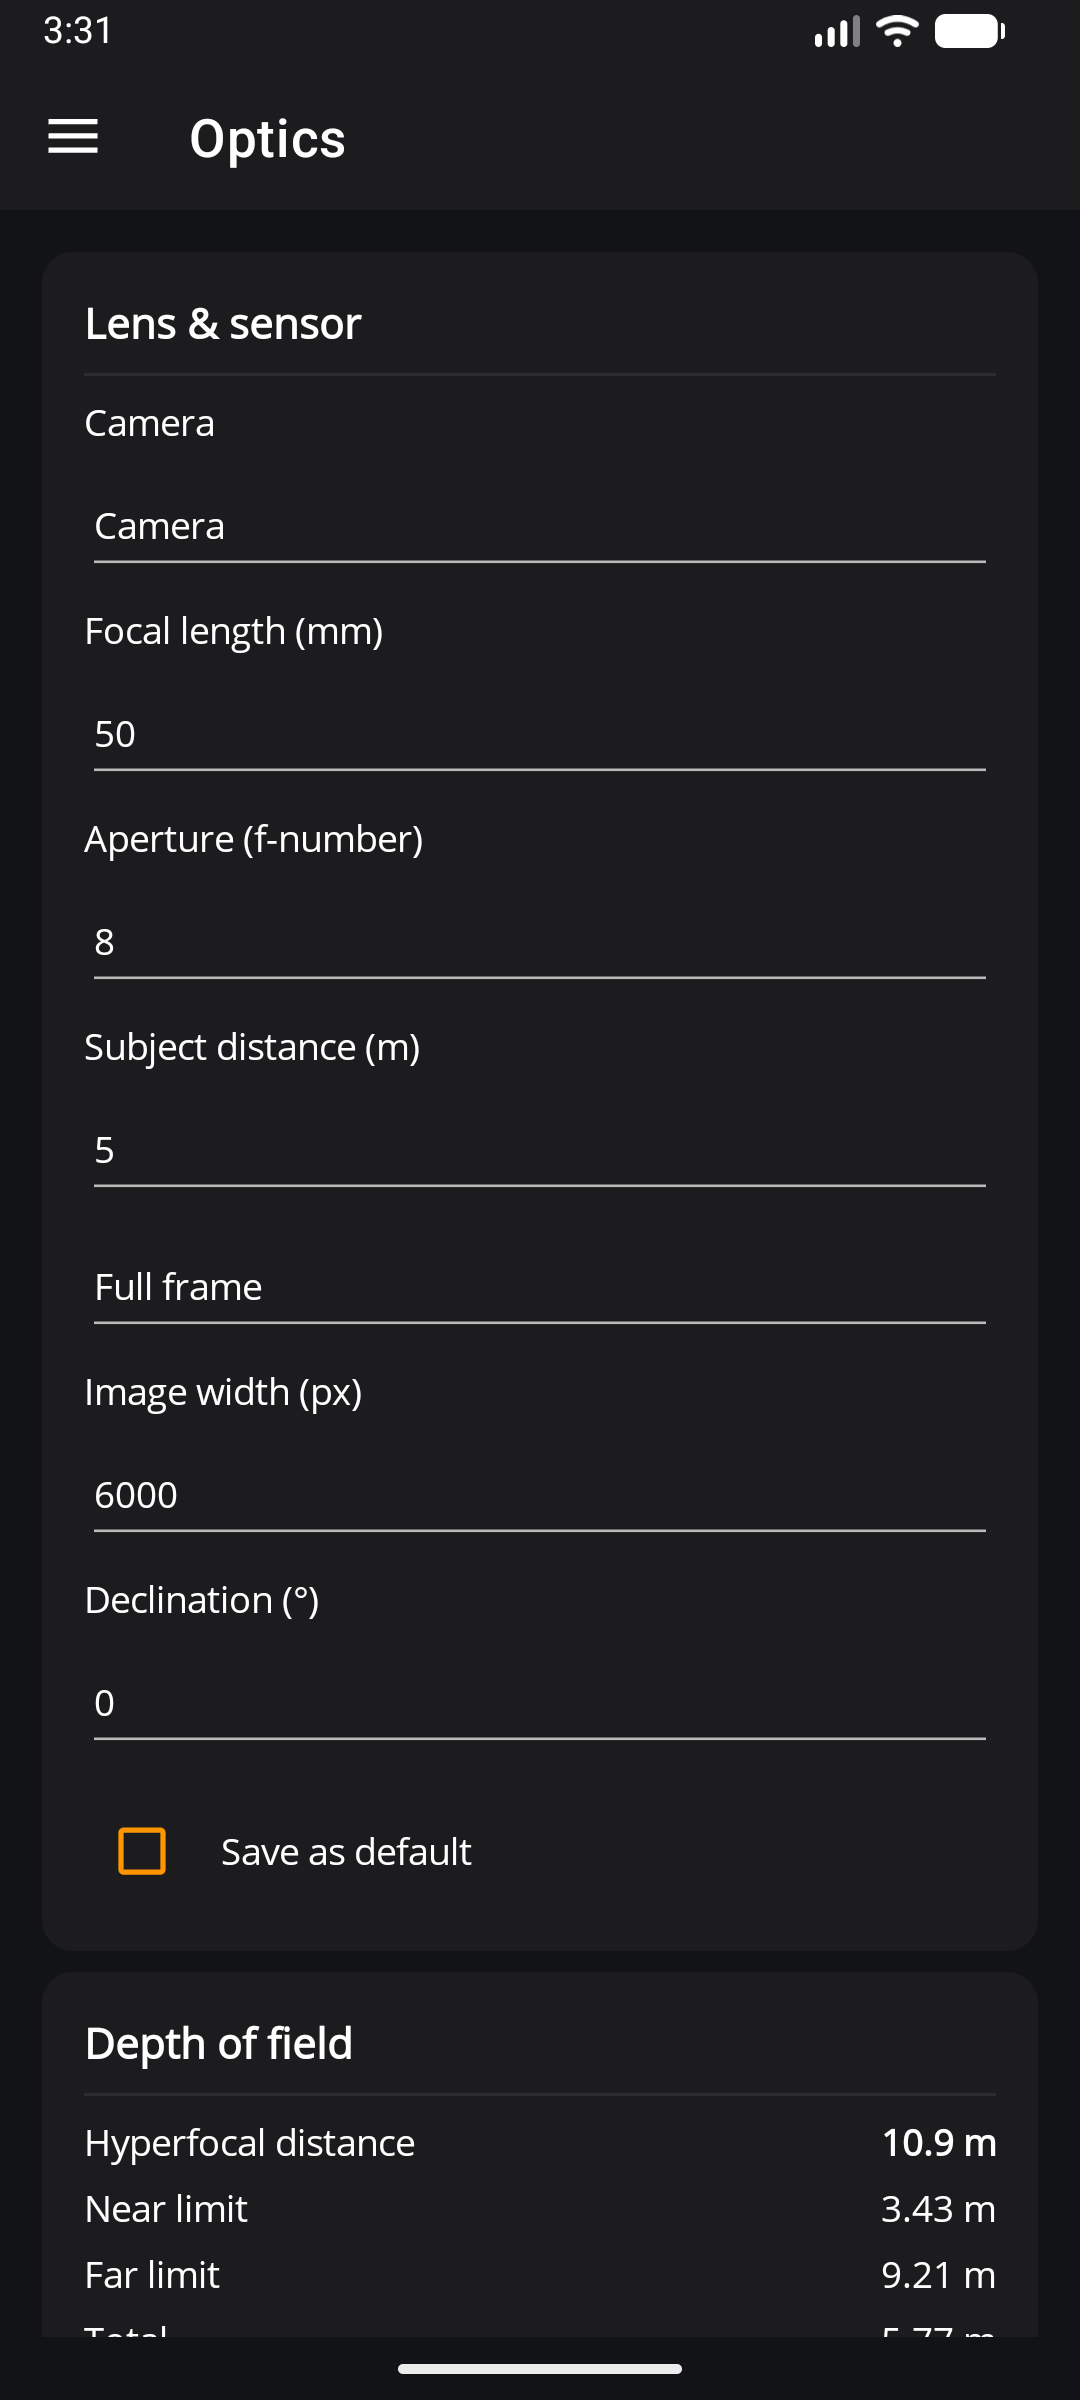
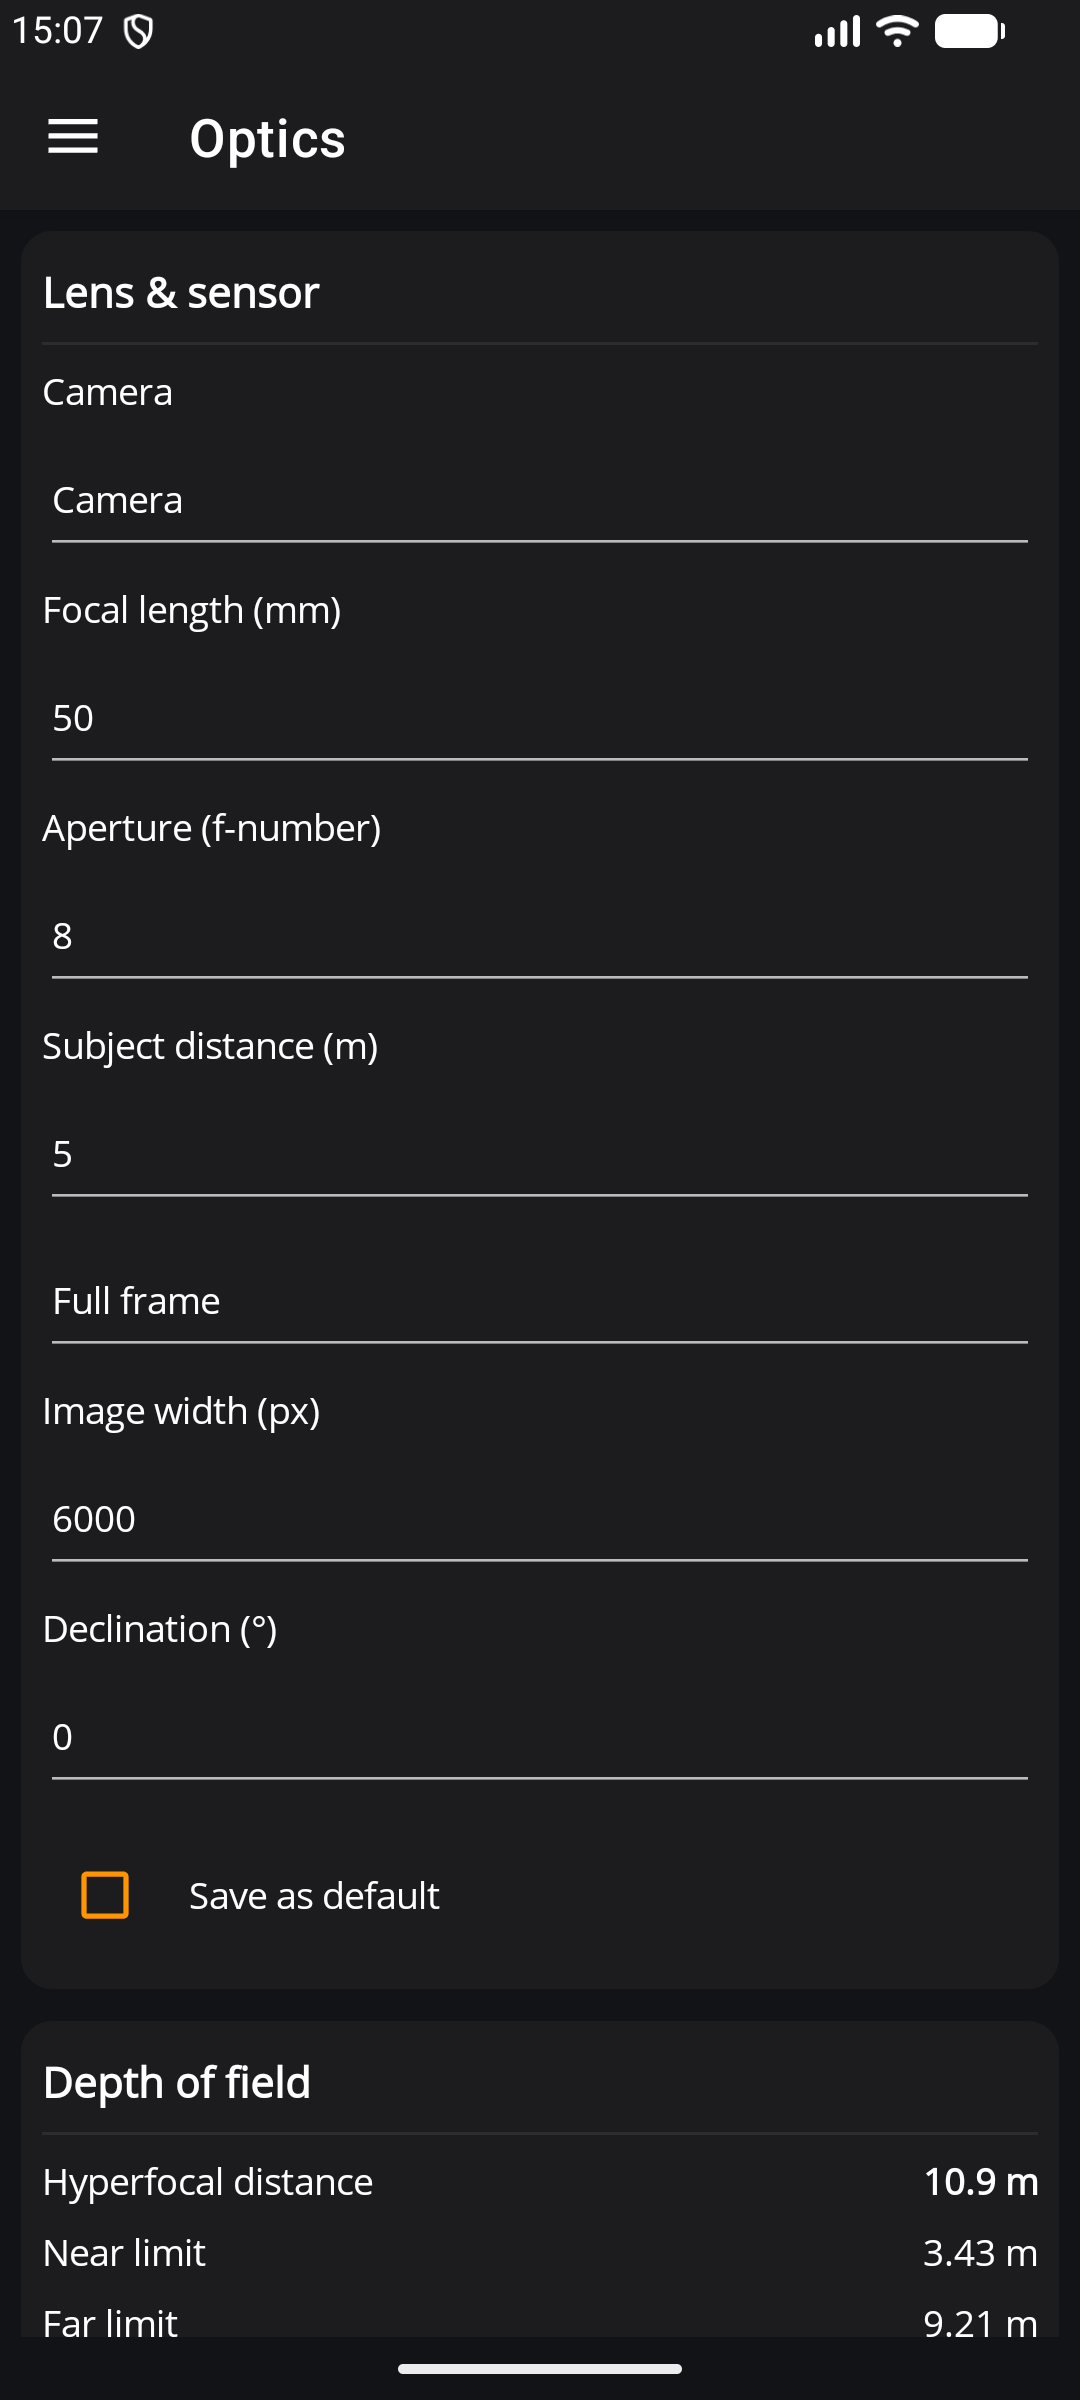
docs(readme): screenshots from 1.4.0, with the Sky Chart and Planets
The six README screenshots dated from 4 September and showed neither the
1.3.3 design system nor the Sun's day over a sky. They are now the
English phone captures from the 1.4.0 store set, and the Sky Chart and
Planets join them: two rows of four.

diff --git a/README.md b/README.md
@@ -22,13 +22,15 @@ listings), with five themes.
 ## Screenshots
 
 <p align="center">
-  <img src="docs/screenshots/today.png" width="200" alt="Today: sky verdict, weather, Sun path, twilight" />
+  <img src="docs/screenshots/today.png" width="200" alt="Today: sky verdict, weather, and the Sun's day over a sky coloured by the hour" />
+  <img src="docs/screenshots/sky-chart.png" width="200" alt="Sky chart: stars, constellations and planets for any hour" />
   <img src="docs/screenshots/eclipses.png" width="200" alt="A century of solar eclipses with magnitude and local type" />
-  <img src="docs/screenshots/optics.png" width="200" alt="Depth of field, field of view and star-trail exposure" />
+  <img src="docs/screenshots/planets.png" width="200" alt="Planets: where each one is now, when it rises, culminates and sets, and how far" />
 </p>
 <p align="center">
   <img src="docs/screenshots/ruler.png" width="200" alt="Multi-stop route with bearings, detour ratio and fuel cost" />
   <img src="docs/screenshots/speed-distance.png" width="200" alt="GPS speedometer and trip summary" />
+  <img src="docs/screenshots/optics.png" width="200" alt="Depth of field, field of view and star-trail exposure" />
   <img src="docs/screenshots/locations.png" width="200" alt="Saved locations" />
 </p>
 
